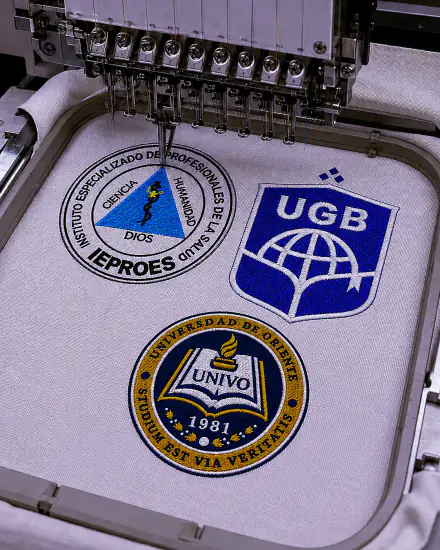
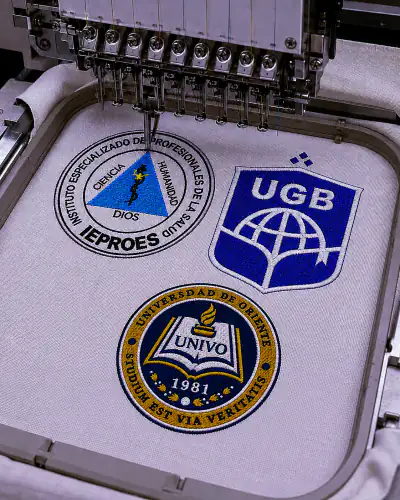
perf(lcp): stabilize providers mounting, optimize hero image to 39kb and defer modal bundles

diff --git a/src/providers/index.tsx b/src/providers/index.tsx
@@ -25,16 +25,9 @@
 //   useAuth() → AUTH_GUEST_DEFAULT, useCart() → CART_EMPTY_DEFAULT, etc.
 // ──────────────────────────────────────────────────────────────
 import * as React from "react";
-import dynamic from "next/dynamic";
 import { QueryClient, QueryClientProvider } from "@tanstack/react-query";
 import { ThemeProvider } from "./theme-provider";
-
-// Carga LAZY — excluye Supabase, react-hot-toast y todos los
-// contextos pesados del bundle crítico del homepage.
-const DeferredProviders = dynamic(
-  () => import("./DeferredProviders").then((mod) => mod.DeferredProviders),
-  { ssr: false, loading: () => null }
-);
+import { DeferredProviders } from "./DeferredProviders";
 
 export function Providers({ children }: { children: React.ReactNode }) {
   const [queryClient] = React.useState(
@@ -49,23 +42,6 @@ export function Providers({ children }: { children: React.ReactNode }) {
       })
   );
 
-  // Retrasa el montaje de DeferredProviders hasta tiempo de idle del browser.
-  // requestIdleCallback asegura que el chunk no se ejecuta durante la ventana
-  // del LCP. Fallback de 200ms para browsers sin soporte (Safari <17).
-  const [mounted, setMounted] = React.useState(false);
-  React.useEffect(() => {
-    if (typeof window === "undefined") return;
-    if ("requestIdleCallback" in window) {
-      (window as Window & typeof globalThis).requestIdleCallback(
-        () => setMounted(true),
-        { timeout: 1500 }
-      );
-    } else {
-      const id = setTimeout(() => setMounted(true), 200);
-      return () => clearTimeout(id);
-    }
-  }, []);
-
   return (
     <QueryClientProvider client={queryClient}>
       <ThemeProvider
@@ -74,7 +50,7 @@ export function Providers({ children }: { children: React.ReactNode }) {
         enableSystem={false}
         disableTransitionOnChange
       >
-        {mounted ? <DeferredProviders>{children}</DeferredProviders> : children}
+        <DeferredProviders>{children}</DeferredProviders>
       </ThemeProvider>
     </QueryClientProvider>
   );

diff --git a/src/components/layout/GlobalModals.tsx b/src/components/layout/GlobalModals.tsx
@@ -9,9 +9,18 @@
 // Se monta una sola vez en (public)/layout.tsx para que estén
 // disponibles en TODAS las páginas sin duplicar la instancia.
 // ──────────────────────────────────────────────────────────────
-import { CartDrawer } from "@/components/cart/CartDrawer";
-import { LoginModal } from "@/components/cart/LoginModal";
+import dynamic from "next/dynamic";
 import { useAuth } from "@/context/AuthContext";
+
+const CartDrawer = dynamic(
+  () => import("@/components/cart/CartDrawer").then((mod) => mod.CartDrawer),
+  { ssr: false }
+);
+
+const LoginModal = dynamic(
+  () => import("@/components/cart/LoginModal").then((mod) => mod.LoginModal),
+  { ssr: false }
+);
 
 export function GlobalModals() {
   const { authModalContext, hideAuthModal } = useAuth();

diff --git a/src/proxy.ts b/src/proxy.ts
@@ -26,7 +26,8 @@ let killswitchCache: { active: boolean; expiresAt: number } = {
   active: false,
   expiresAt: 0,
 };
-
+// Si esta mierda funciona
+// no la vuelvo a tocar..
 async function isKillswitchActive(): Promise<boolean> {
   const now = Date.now();
 
@@ -102,6 +103,7 @@ export async function proxy(request: NextRequest) {
   }
 
   // ── 2. PROTECCIÓN SERVER-SIDE DE /ADMIN ──────────────────────
+  // Choco es gei
   const isAdminLoginPage = pathname === "/admin/login";
   const isAdminRoute = pathname.startsWith("/admin");
 

diff --git a/src/components/ui/StaticHeroImage.tsx b/src/components/ui/StaticHeroImage.tsx
@@ -27,8 +27,8 @@ export function StaticHeroImage({ sizes: _sizes }: StaticHeroImageProps) {
         <img
           src="/images/hero/hero-home-440.webp"
           alt="Uniformes médicos y universitarios de Confecciones Liss, empresa de uniformes en San Miguel, El Salvador"
-          width={440}
-          height={550}
+          width={400}
+          height={500}
           className="h-full w-full rounded-xl object-cover object-center"
           fetchPriority="high"
           loading="eager"

diff --git a/src/app/globals.css b/src/app/globals.css
@@ -437,18 +437,6 @@ main {
   }
 
   /* Premium page stagger fade-in-up */
-  @keyframes fadeInUp {
-    from {
-      opacity: 0;
-      transform: translateY(16px);
-    }
-
-    to {
-      opacity: 1;
-      transform: translateY(0);
-    }
-  }
-
   .animate-fade-in-up {
     opacity: 0;
     animation: fadeInUp 200ms var(--ease-out-expo) forwards;
